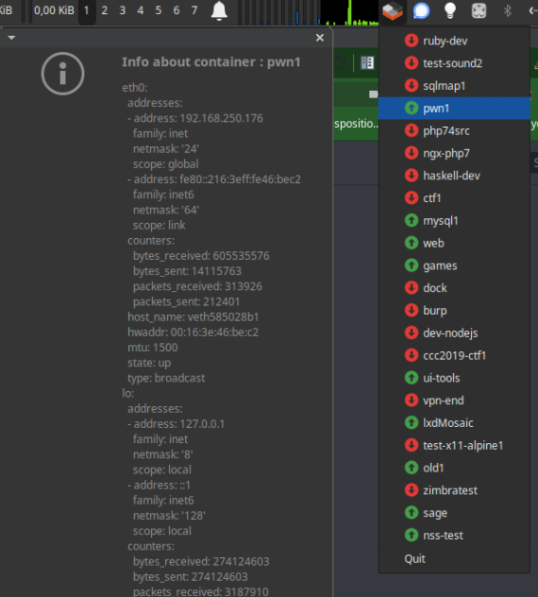
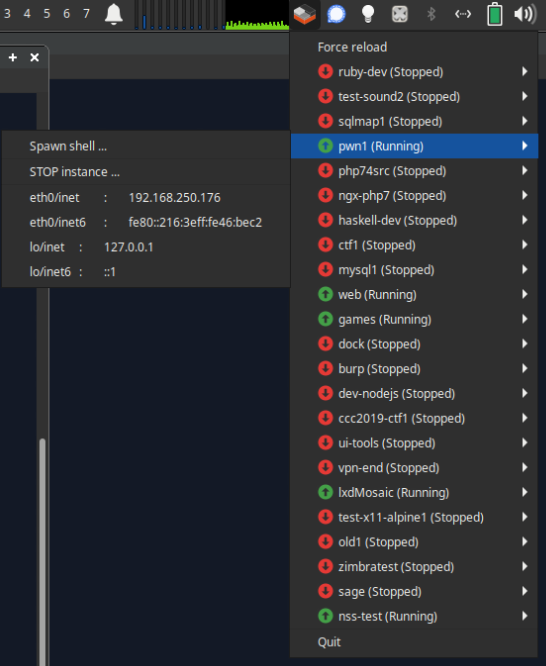
v0.9

diff --git a/README.md b/README.md
@@ -4,10 +4,14 @@ Having fun w/ python + gtk + lxd .
 
 ## whatis 
 
-Pops up gtk-ish indicator in the "system tray". 
-When clicked - shows list of containers on LXD instance + red/green indicator.
-When clicked on container - popup dialog box w/ network configuration of this container.
+Pops up GTK-ish indicator in the "system tray". 
+* List of containers + status (running or not)
+* Start/Stop selected container
+* Sprawn shell on running one
+* IP address info -> coppy to clipboard when clicked
 
 
 ![Alt text](screens/demo1.png "Demo screenshot")
 
+
+TODO: support multiple/custom LXD host. Currently: localhost ;)
